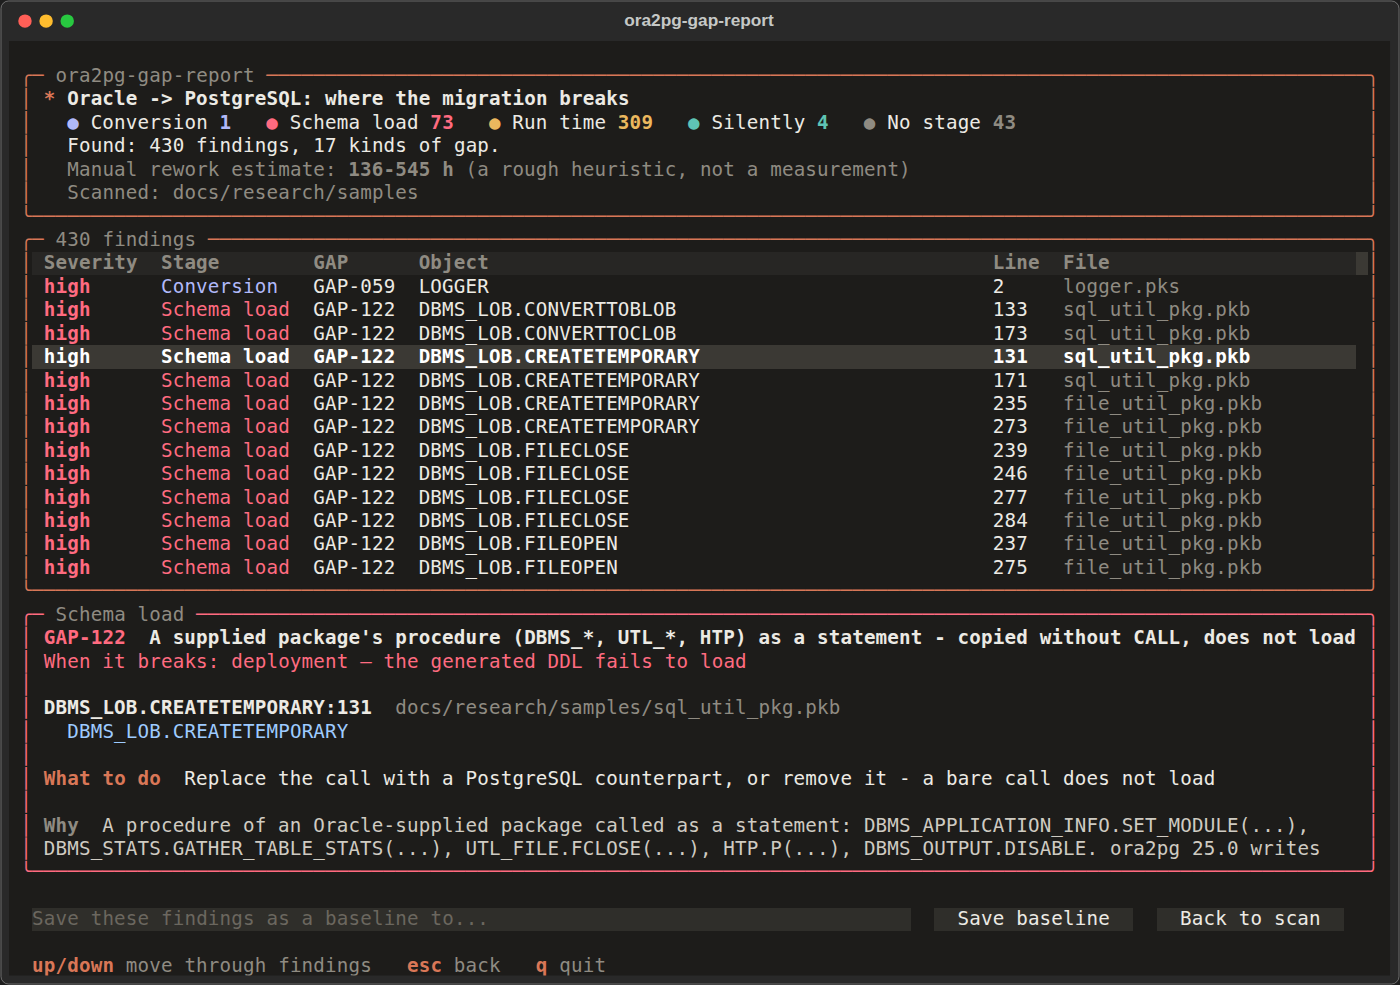
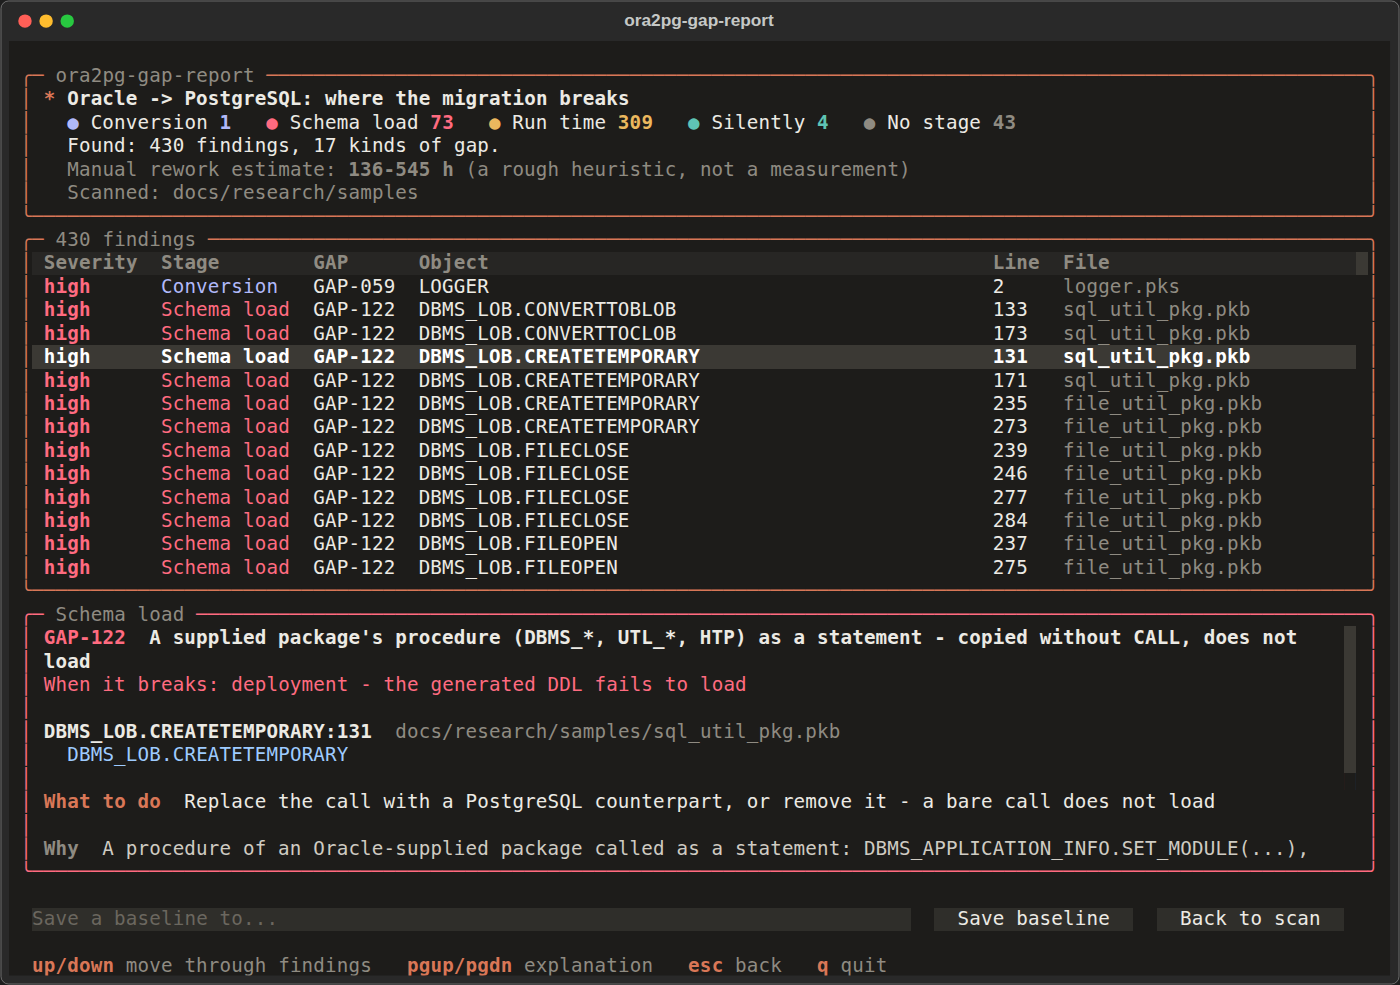
Let the TUI's finding explanation scroll
It was a Static, which clips its text to its box: a long Why could not
be read to the end, by mouse or keyboard. It now sits in a VerticalScroll,
PgUp/PgDn scroll it (priority over the table's own page keys), and the
key line mentions them. Screenshots retaken.

diff --git a/ora2pg_gap_report/tui_app.py b/ora2pg_gap_report/tui_app.py
@@ -34,7 +34,8 @@ from rich.text import Text
 from textual.content import Content
 from textual import events, work
 from textual.app import App, ComposeResult
-from textual.containers import Horizontal
+from textual.binding import Binding
+from textual.containers import Horizontal, VerticalScroll
 from textual.screen import Screen
 from textual.theme import Theme
 from textual.timer import Timer
@@ -917,7 +918,14 @@ class ResultsScreen(Screen[None]):
     NEW/RESOLVED/UNCHANGED summary when the scan was run with a baseline
     file to compare against."""
 
-    BINDINGS = [("escape", "app.pop_screen", "Back")]
+    BINDINGS = [
+        ("escape", "app.pop_screen", "Back"),
+        # The arrows belong to the table; the explanation under it can be
+        # longer than its box, so it scrolls on its own keys.
+        # priority: the table has page keys of its own and would take them.
+        Binding("pagedown", "scroll_detail(1)", "Scroll the explanation", priority=True),
+        Binding("pageup", "scroll_detail(-1)", "Scroll the explanation", priority=True),
+    ]
 
     CSS = """
     /* The summary is capped at 7 rows (5 lines inside the border) and
@@ -930,7 +938,8 @@ class ResultsScreen(Screen[None]):
        pushed #back-btn off an 80x24 terminal. The table gets more room,
        the detail box enough for gap, stage, place and what to do. */
     #findings-table { height: 3fr; margin: 0 1; }
-    #detail { height: 2fr; margin: 0 1; padding: 0 1; overflow-y: auto; }
+    #detail-box { height: 2fr; margin: 0 1; padding: 0 1; }
+    #detail { height: auto; }
     /* Save and Back share one compact row: two rows of buttons were what
        squeezed the detail box to nothing on a 24-line terminal. */
     #baseline-save-controls { height: 1; padding: 0 2; margin-top: 1; }
@@ -981,8 +990,10 @@ class ResultsScreen(Screen[None]):
         table: DataTable[str] = DataTable(id="findings-table", cursor_type="row", zebra_stripes=False)
         table.border_title = i18n.count(self.lang, "finding", len(self.findings))
         yield table
-        detail = Static(Text(i18n.t(self.lang, "tui_results_select_row_hint"), style=_MUTED), id="detail")
-        yield detail
+        # A scroll container around the text: a Static alone clips a long
+        # explanation to its box, with no way to read the rest.
+        with VerticalScroll(id="detail-box"):
+            yield Static(Text(i18n.t(self.lang, "tui_results_select_row_hint"), style=_MUTED), id="detail")
         with Horizontal(id="baseline-save-controls"):
             yield Input(
                 placeholder=i18n.t(self.lang, "tui_save_baseline_input_placeholder"),
@@ -991,7 +1002,7 @@ class ResultsScreen(Screen[None]):
             )
             yield Button(i18n.t(self.lang, "tui_save_baseline_btn"), id="save-baseline-btn", compact=True)
             yield Button(i18n.t(self.lang, "tui_back_to_scan_btn"), id="back-btn", compact=True)
-        yield Static(_hints(self.lang, "move", "back", "quit"), classes="hints")
+        yield Static(_hints(self.lang, "move", "page", "back", "quit"), classes="hints")
 
     def on_resize(self, event: events.Resize) -> None:
         # The summary's items are laid out by hand for the current width
@@ -1101,6 +1112,13 @@ class ResultsScreen(Screen[None]):
                 key=str(i),
             )
 
+    def action_scroll_detail(self, direction: int) -> None:
+        detail = self.query_one("#detail-box", VerticalScroll)
+        if direction > 0:
+            detail.scroll_page_down(animate=False)
+        else:
+            detail.scroll_page_up(animate=False)
+
     def on_data_table_row_highlighted(self, event: DataTable.RowHighlighted) -> None:
         # The detail box follows the cursor, so arrowing down the table
         # reads through the findings without pressing Enter on each one.
@@ -1151,12 +1169,13 @@ class ResultsScreen(Screen[None]):
             text.append(f"\n{url}", style=_MUTED)
         text.append(f"\n\n{i18n.t(lang, 'report_gap_why')}  ", style=f"bold {_MUTED}")
         text.append(messages.text(f.message_id, lang), style="#CFCBC2")
-        detail = self.query_one("#detail", Static)
+        box = self.query_one("#detail-box", VerticalScroll)
         # The box takes the colour of the stage the finding breaks at, the
         # same hue its row carries in the table's Stage column.
-        detail.styles.border = ("round", _STAGE_STYLE[key])
-        detail.border_title = i18n.t(lang, f"stage_{key}_name")
-        detail.update(text)
+        box.styles.border = ("round", _STAGE_STYLE[key])
+        box.border_title = i18n.t(lang, f"stage_{key}_name")
+        box.scroll_home(animate=False)
+        self.query_one("#detail", Static).update(text)
 
     def on_button_pressed(self, event: Button.Pressed) -> None:
         if event.button.id == "back-btn":
@@ -1318,12 +1337,12 @@ class GapReportApp(App[None]):
     }
     .hints { height: 1; padding: 0 2; margin-top: 1; }
 
-    DirectoryTree, DataTable, #detail {
+    DirectoryTree, DataTable, #detail-box {
         background: $background; border: round #4A4843;
         border-title-color: $text-muted; border-title-style: none;
     }
     DirectoryTree:focus, DataTable:focus { border: round $primary; background-tint: $foreground 0%; }
-    DirectoryTree, DataTable, #detail { scrollbar-size: 0 1; }
+    DirectoryTree, DataTable, #detail-box { scrollbar-size: 0 1; }
     DirectoryTree > .directory-tree--folder { color: $primary; text-style: bold; }
     DirectoryTree > .directory-tree--extension { color: $text-muted; text-style: none; }
     DirectoryTree > .directory-tree--file { color: $foreground; }

diff --git a/tests/test_tui_app.py b/tests/test_tui_app.py
@@ -1023,3 +1023,39 @@ async def test_save_baseline_placeholder_is_not_cut_off_at_eighty_columns(lang):
         await _wait_until(pilot, lambda: isinstance(app.screen, ResultsScreen))
         field = app.screen.query_one("#save-baseline-input")
         assert len(field.placeholder) < field.content_region.width, (field.placeholder, field.content_region.width)
+
+
+@pytest.mark.asyncio
+async def test_page_keys_scroll_the_explanation_not_the_table():
+    app = GapReportApp(start_path=SAMPLES, lang="en")
+    async with app.run_test(size=(80, 24)) as pilot:
+        await pilot.pause()
+        app.screen.selected_path = SAMPLES / "logger.pkb"
+        await pilot.click("#scan-btn")
+        await _wait_until(pilot, lambda: isinstance(app.screen, ResultsScreen))
+        table = app.screen.query_one("#findings-table")
+        table.focus()
+        await pilot.press("enter")
+        await pilot.pause()
+        detail = app.screen.query_one("#detail-box")
+        row = table.cursor_row
+        assert detail.max_scroll_y > 0  # the explanation is longer than its box at 80x24
+        await pilot.press("pagedown")
+        await pilot.pause()
+        assert detail.scroll_y > 0 and table.cursor_row == row
+        await pilot.press("pageup")
+        await pilot.pause()
+        assert detail.scroll_y == 0
+
+
+@pytest.mark.parametrize("lang", ["ru", "en"])
+@pytest.mark.asyncio
+async def test_results_hints_fit_eighty_columns(lang):
+    app = GapReportApp(start_path=SAMPLES, lang=lang)
+    async with app.run_test(size=(80, 24)) as pilot:
+        await pilot.pause()
+        app.screen.selected_path = SAMPLES / "logger.pks"
+        await pilot.click("#scan-btn")
+        await _wait_until(pilot, lambda: isinstance(app.screen, ResultsScreen))
+        hints = app.screen.query_one(".hints")
+        assert hints.content.cell_len <= hints.content_region.width

diff --git a/ora2pg_gap_report/i18n.py b/ora2pg_gap_report/i18n.py
@@ -1503,6 +1503,7 @@ _UI: dict[str, dict[str, str]] = {
     "tui_hint_tab": {"ru": "tab|следующее поле", "en": "tab|next field"},
     "tui_hint_enter": {"ru": "enter|выбрать", "en": "enter|select"},
     "tui_hint_move": {"ru": "up/down|по находкам", "en": "up/down|move through findings"},
+    "tui_hint_page": {"ru": "pgup/pgdn|описание", "en": "pgup/pgdn|explanation"},
     "tui_hint_back": {"ru": "esc|назад", "en": "esc|back"},
     "tui_hint_quit": {"ru": "q|выход", "en": "q|quit"},
     "tui_elapsed": {"ru": "{s} с", "en": "{s}s"},

diff --git a/CHANGELOG.ru.md b/CHANGELOG.ru.md
@@ -114,6 +114,10 @@ patch — исправления в существующих.
 - Прямые кавычки вместо типографских в русском интерфейсе и текстах
   находок, и без обратных кавычек Markdown в оговорке к оценке трудоёмкости,
   которую терминал, TUI и HTML-отчёт показывают как обычный текст.
+- Объяснение находки в TUI прокручивается: это было простое текстовое поле,
+  которое обрезало длинное "Почему" по своей высоте без возможности
+  дочитать. Теперь оно прокручивается мышью и PgUp/PgDn (стрелки остаются
+  за таблицей), и строка подсказок об этом говорит.
 
 ## [0.14.0] - 2026-10-08
 

diff --git a/CHANGELOG.md b/CHANGELOG.md
@@ -112,6 +112,10 @@ patch for fixes to existing ones.
 - Straight quotes in the Russian interface and finding texts instead of
   typographic ones, and no Markdown backticks in the effort caveat, which
   the terminal, the TUI and the HTML report show as plain text.
+- The TUI's finding explanation scrolls: it was a plain text box that
+  clipped a long "Why" to its height, with no way to read the rest. Now it
+  scrolls with the mouse and with PgUp/PgDn (the arrows stay on the table),
+  and the key line says so.
 
 ## [0.14.0] - 2026-10-08
 
